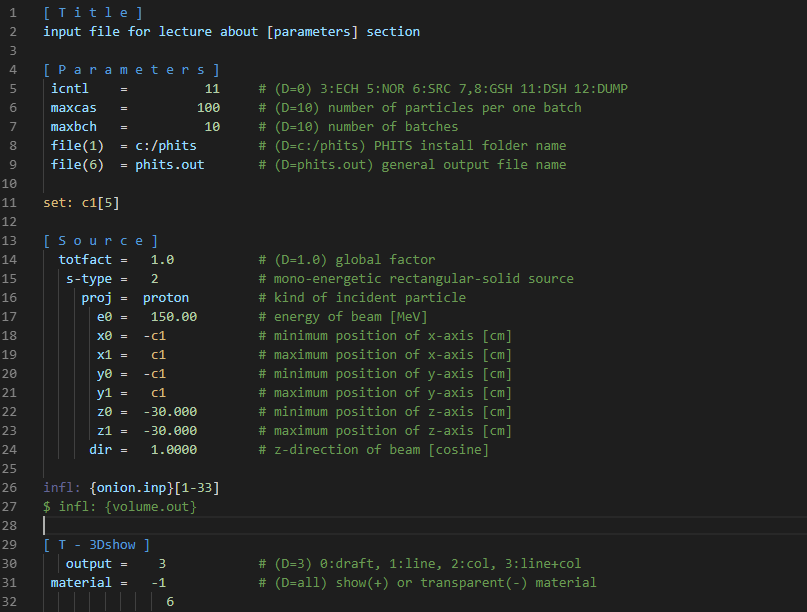
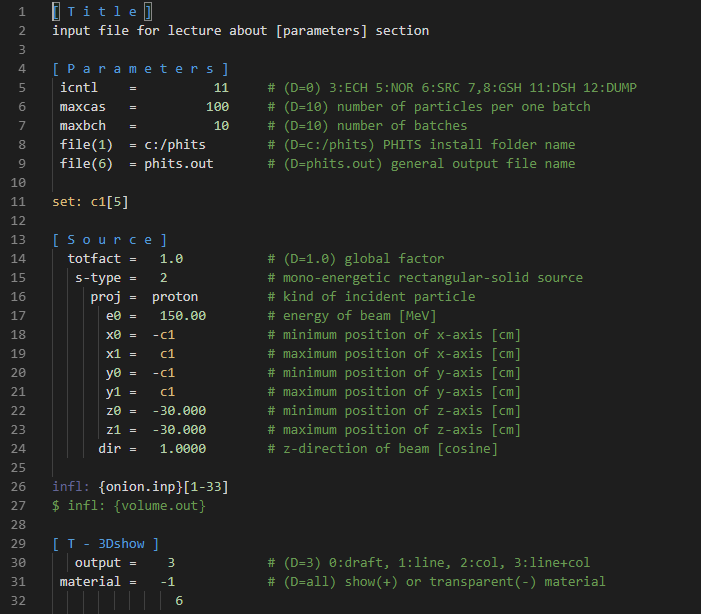
update for v0.0.2

diff --git a/CHANGELOG.md b/CHANGELOG.md
@@ -1,9 +1,10 @@
 # Change Log
 
-All notable changes to the "phits-input-support" extension will be documented in this file.
+## 0.0.2 (2019/12/02)
 
-Check [Keep a Changelog](http://keepachangelog.com/) for recommendations on how to structure this file.
+- transformのキーワードにハイライト追加
+- 過剰にハイライトされていたので修正
 
-## [Unreleased]
+## 0.0.1 (2019/12/01)
 
 - Initial release

diff --git a/README.md b/README.md
@@ -14,7 +14,14 @@ PHITSインプットファイル作成用Visual Studio Code Extension
     - m, mat
     - set
     - infl
+    - tr
+
+![capture](images/capture1.png)
 
 ### Snippets
 
-TBD
+未定
+
+## 備考
+
+- デフォルトのカラーテーマ（Default Dark+）でないとうまく色分けされない場合があります。
